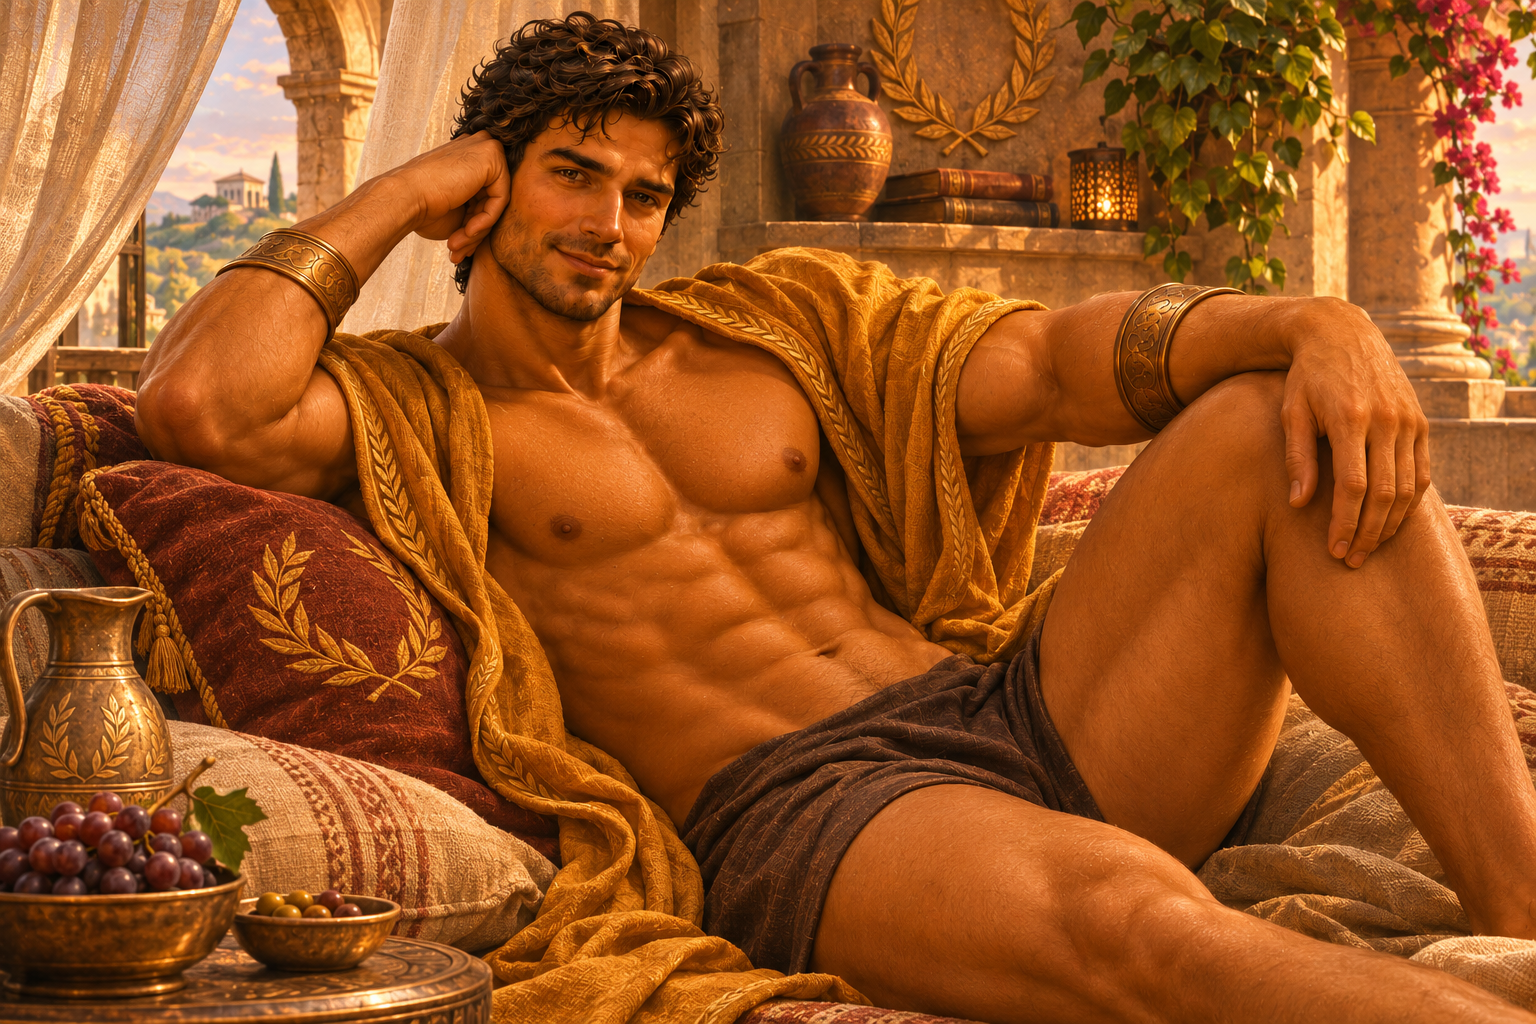
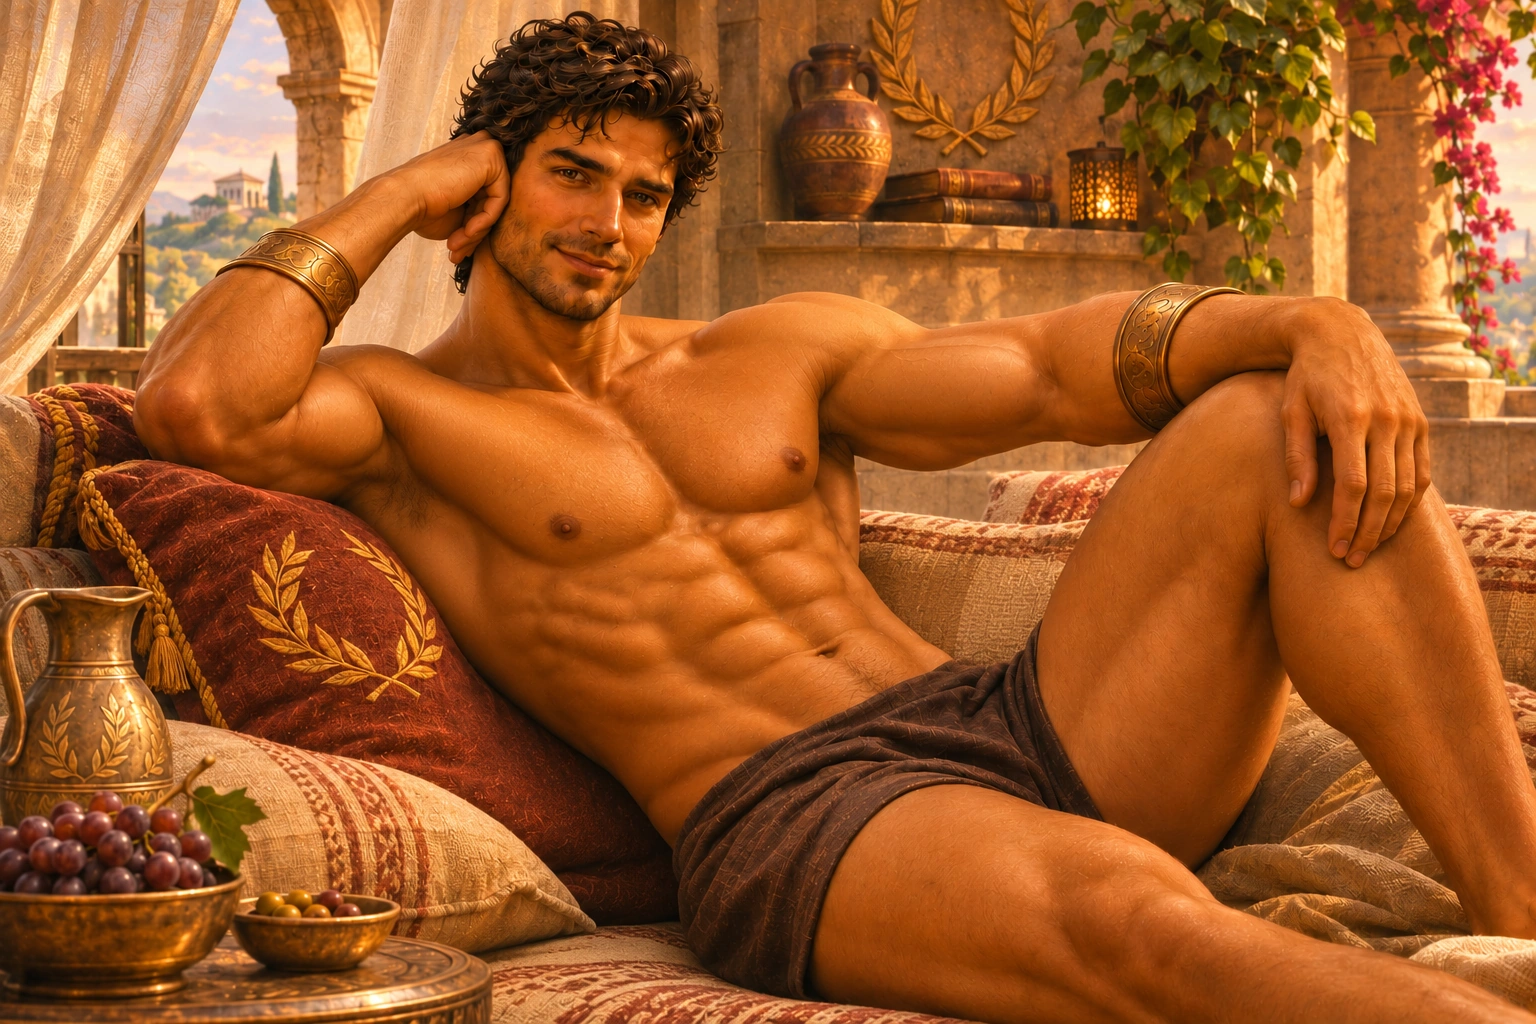
Update level 13 boss reward artwork

diff --git a/src/main.ts b/src/main.ts
@@ -203,7 +203,7 @@ syncScene();
 /** Bust cached gallery plates replaced in place. Level 12 stayed on the previous plate. */
 const GALLERY_REV = 'r9';
 const replacedGallery = (file: string) => /^levels\/(?:11|13|14|15|16|17|18|19|20)\/v2\/(?:restored|ninety|perfect|sealed|portrait(?:-sealed)?|mask)\./.test(file);
-const asset = (file: string) => `${import.meta.env.BASE_URL}${file}${replacedGallery(file) ? `?v=${GALLERY_REV}` : ''}`;
+const asset = (file: string) => `${import.meta.env.BASE_URL}${file}${file === 'levels/13/perfect-v1/perfect.webp' ? '?v=2' : replacedGallery(file) ? `?v=${GALLERY_REV}` : ''}`;
 const sameAsset = (src: string, file: string) => {
   try { return new URL(src, location.href).pathname.endsWith(file); }
   catch { return src.split('?')[0].endsWith(file); }
